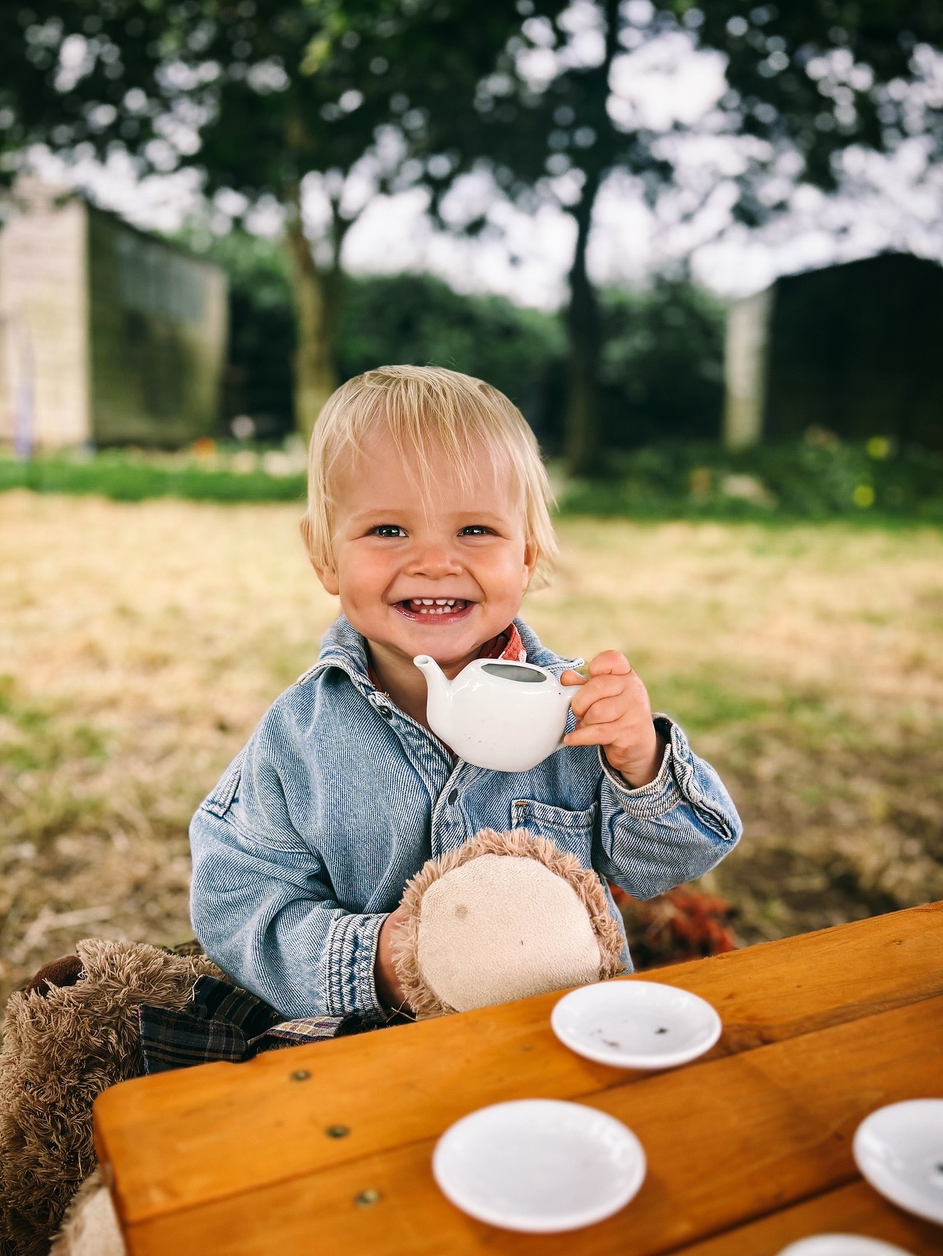
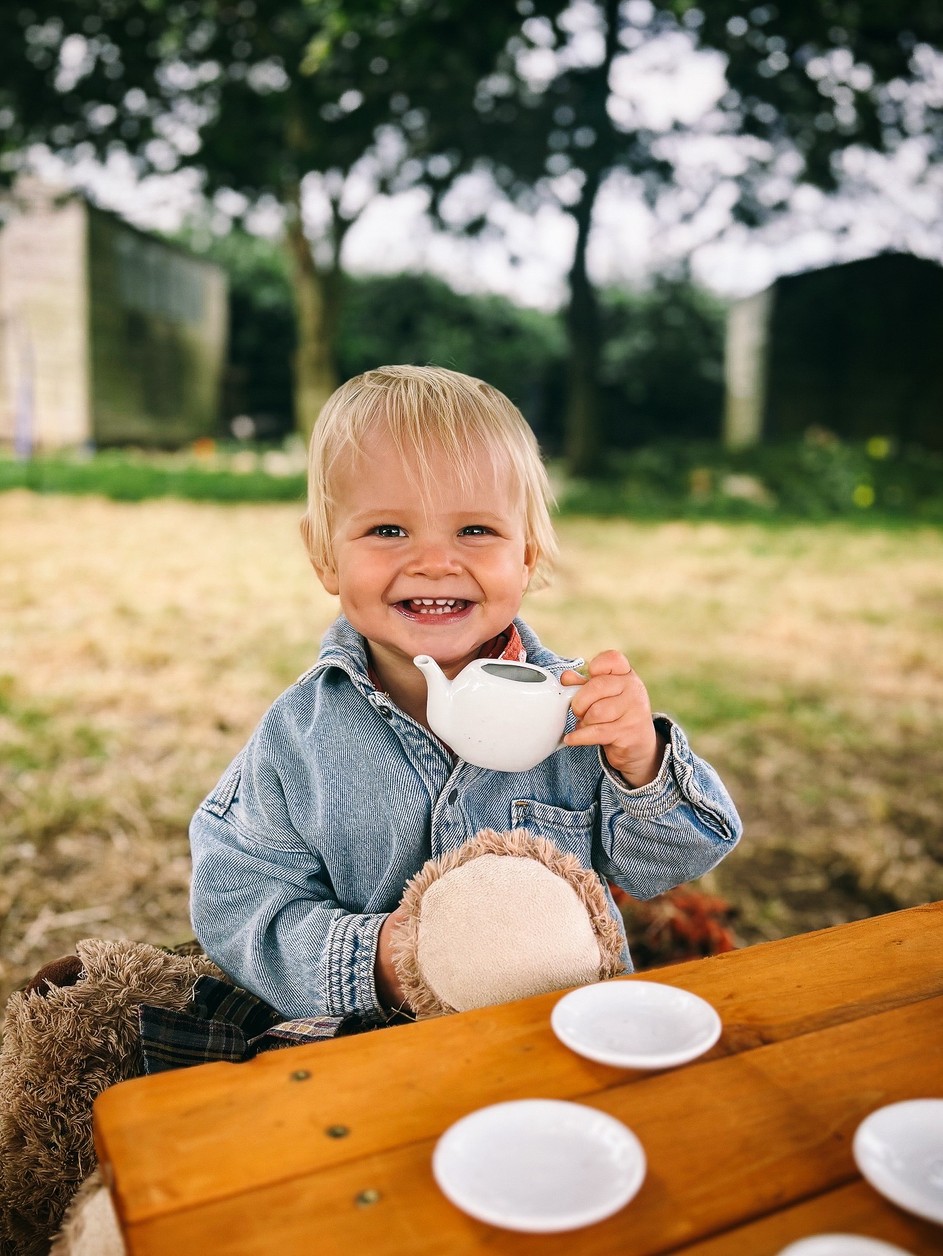
Update sharing artwork, static story thumbnails and Tea Party photo

Changed region(s): [[0.2188, 0.4922, 0.625, 0.8306], [0.6562, 0.6152, 0.75, 0.7075], [0.4688, 0.7075, 0.5, 0.7383]]

diff --git a/src/lib/story-card-media.ts b/src/lib/story-card-media.ts
@@ -2,7 +2,7 @@
 export const storyCardMedia: Record<string, { image: string; video?: string; position?: string; alt?: string }> = {
   'from-the-front-row': { image: 'photos/portfolio-live-music/web/thumbnail-katy.jpg', position: 'center top' },
   'born-this-way-baby': { image: 'photos/born-this-way-baby/thumbnail-raised.jpg' },
-  'aint-nothin-but-a-hound-dog': { image: 'photos/aint-nothin-but-a-hound-dog/001-40et0gy0ko61f4gbbtw3tkycumqb68zvslk6.jpg', video: 'videos/basset-hound.mp4', position: 'center bottom' },
+  'aint-nothin-but-a-hound-dog': { image: 'photos/aint-nothin-but-a-hound-dog/001-40et0gy0ko61f4gbbtw3tkycumqb68zvslk6.jpg', position: 'center bottom' },
   'dogs-of-dubrovnik': { image: 'photos/dogs-of-dubrovnik/007-b4fab7enpt90tr1jeyt0fxudqjjafoa3fzuz.jpg', position: '80% center' },
   'electric-pup': { image: 'photos/electric-pup/000-ph_fljeuilmkre5rlsa.jpg', position: '60% center' },
   'a-few-favourites': { image: 'photos/a-few-favourites/011-ph_vcisl1j3v9b0savf.jpg', position: 'center' },
@@ -11,7 +11,7 @@ export const storyCardMedia: Record<string, { image: string; video?: string; pos
   'the-ark': { image: 'photos/the-ark/010-gkm6qkslvglgcik9gju7v3p63ggsc3di56n7rr7x.jpg' },
   'dogease': { image: 'photos/dogease/000-ph_f9ux66noqfw3q7fw.jpg', position: '30% center' },
   'wild-ireland': { image: 'photos/wild-ireland/000-cover.jpg', video: 'videos/wolf-looking-toward-camera.mp4', position: 'center 20%', alt: 'A wolf looking towards the camera at Wild Ireland' },
-  'world-of-owls': { image: 'photos/world-of-owls/011-ph_lqfa3al2vfqnk4ie.jpg', video: 'videos/eagle-world-of-owls.mp4' },
+  'world-of-owls': { image: 'photos/world-of-owls/005-ph_ypai7gnedks4pqp3.jpg', alt: 'An owl perched on a branch at World of Owls' },
   'cat-colony-of-cala-bona': { image: 'videos/kitten-cala-bona-poster.jpg', video: 'videos/kitten-cala-bona.mp4', alt: 'A kitten in the cat colony at Cala Bona' },
   'a-story-of-ice-and-fire': { image: 'videos/storyboard-reflections-poster.jpg', video: 'videos/storyboard-reflections.mp4' },
   'dubrovnik-and-cavtat': { image: 'videos/dubrovnik-harbour-poster.jpg', video: 'videos/dubrovnik-harbour.mp4' },
